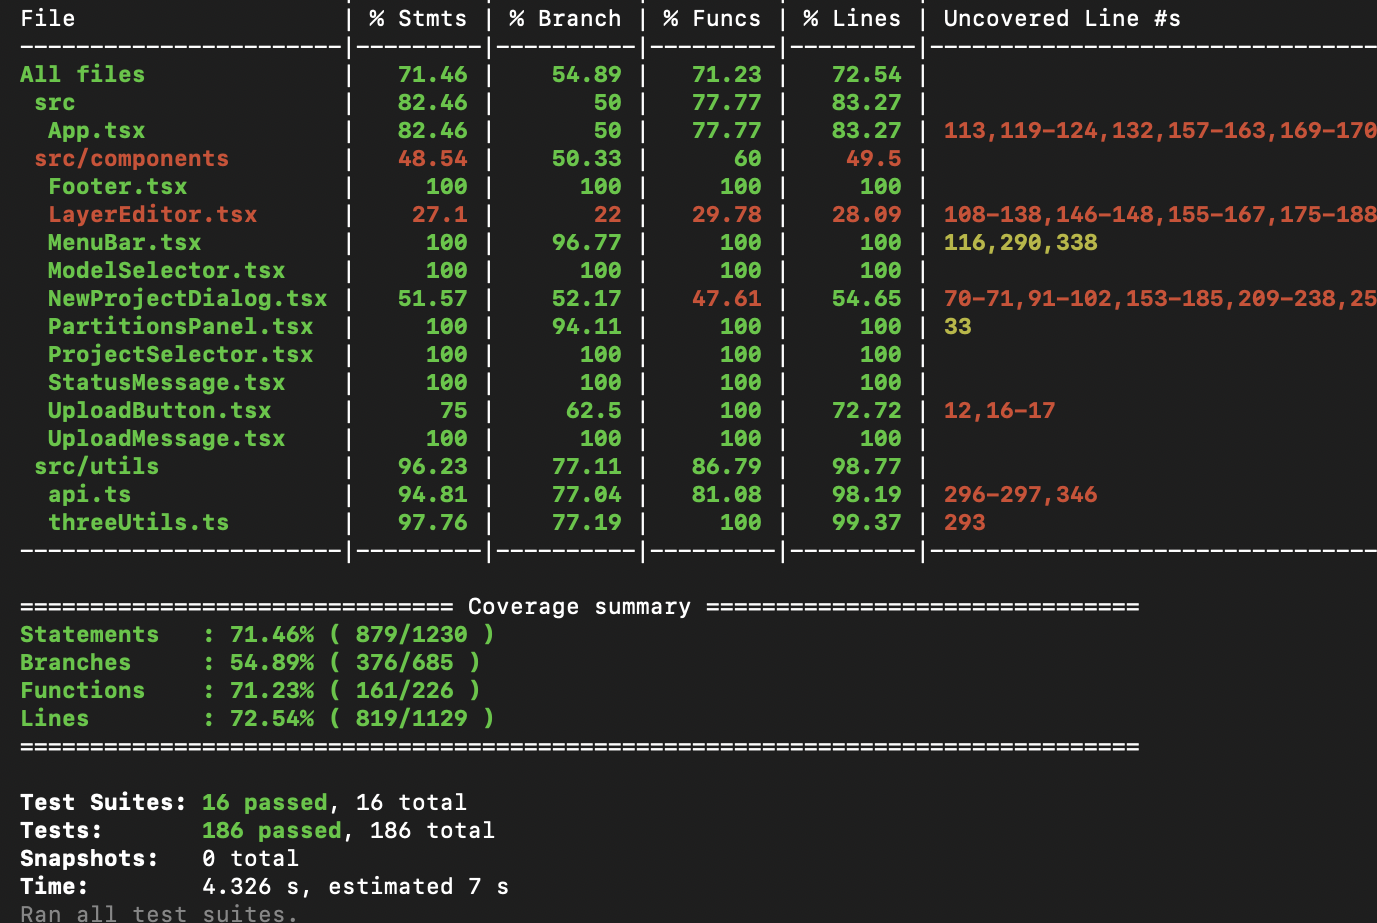
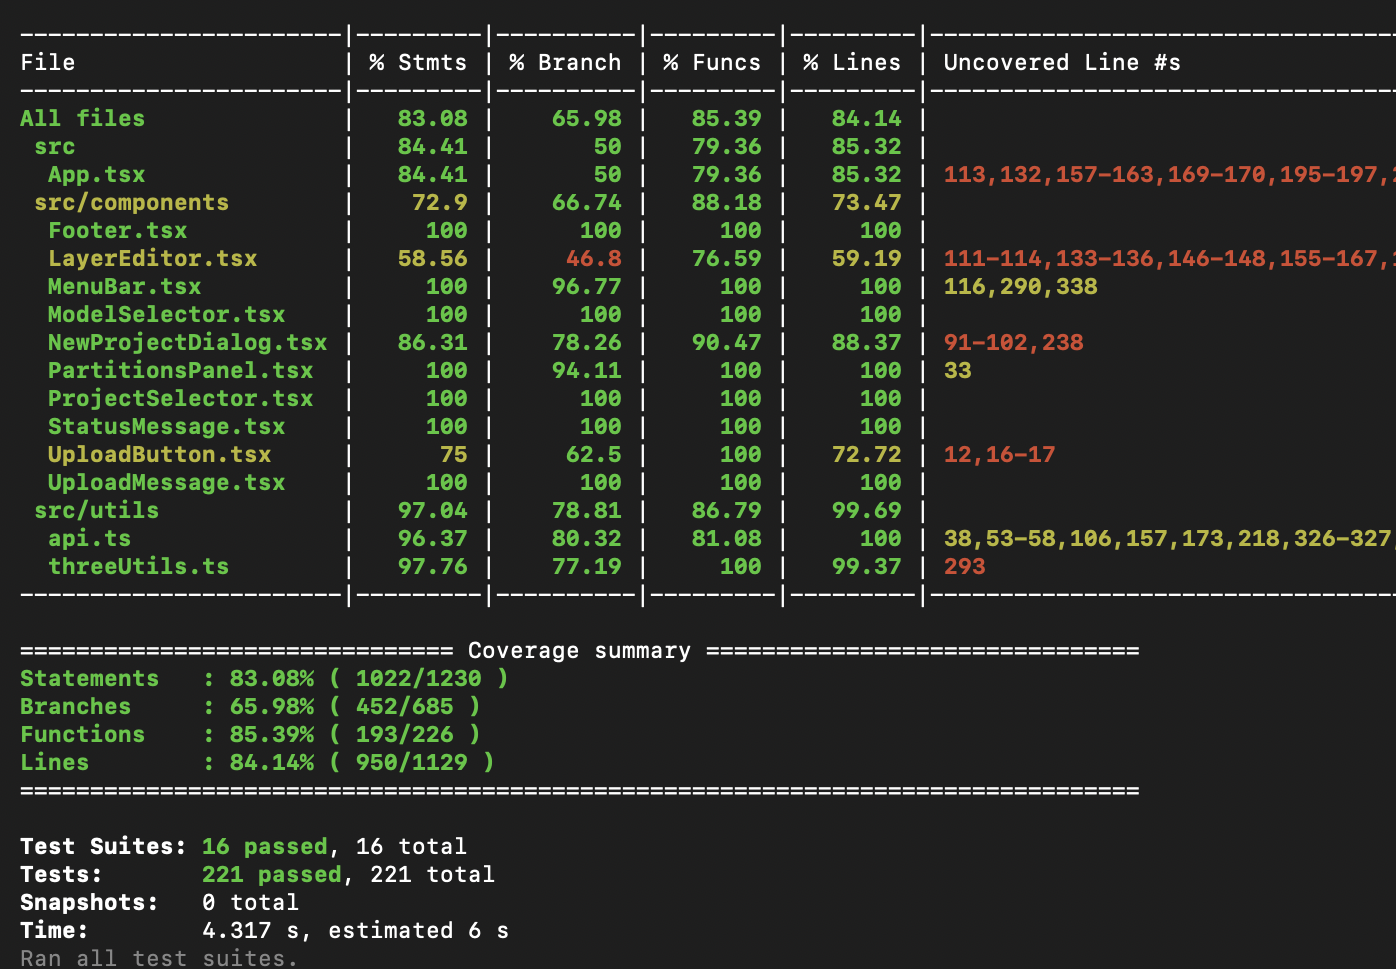
Fix stats

Changed region(s): [[0.0, 0.0, 1.0, 0.8191], [0.0, 0.8494, 0.3747, 1.0]]

diff --git a/docs/VnVReport/VnVReport.tex b/docs/VnVReport/VnVReport.tex
@@ -972,7 +972,7 @@ The following section analyzes the code coverage of the TypeScript code in the f
 \label{fig:typescript-coverage}
 \end{figure}
 
-The frontend codebase has an overall code coverage of 71.46\% for statements, 54.89\% for branches, 71.23\% for functions, and 72.54\% for lines. The code coverage overall met the VnV Plan's requirement of 50\%, however the team will focus on improving the coverage of the most critical components in the future. \texttt{LayerEditor.tsx} and \texttt{ModelViewer.tsx} were the two components that were the most difficult to test, and the team will focus on improving the coverage of these components in the future. This will be done by dividing the components into smaller, more manageable components and testing each component individually.
+The frontend codebase has an overall code coverage of 83.08\% for statements, 65.98\% for branches, 85.39\% for functions, and 84.14\% for lines. The code coverage overall met the VnV Plan's requirement of 50\%. The team will continue to improve the coverage of the frontend codebase in the future.
 \bibliographystyle{plainnat}
 \bibliography{../../refs/References}
 
